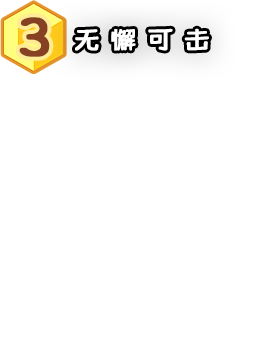
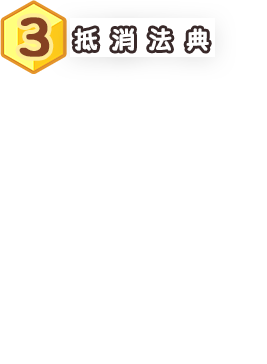
Adjust card functions

Changed region(s): [[0.2697, 0.0604, 0.809, 0.1511]]

diff --git a/Assets/TDTK/Scripts/CardManager.cs b/Assets/TDTK/Scripts/CardManager.cs
@@ -56,18 +56,18 @@ namespace TDTK
             int quality;
             int num = Random.Range(0, 10);
 
-            if (card_setting.draw_times < 10)
+            if (card_setting.draw_times < 8)
             {
                 quality = 0;
             }
-            else if (card_setting.draw_times < 30)
+            else if (card_setting.draw_times < 28)
             {
                 if (num < 5)
                     quality = 0;
                 else
                     quality = 1;
             }
-            else if (card_setting.draw_times < 60)
+            else if (card_setting.draw_times < 58)
             {
                 if (num < 2)
                     quality = 0;
@@ -223,17 +223,17 @@ namespace TDTK
             int level = Level + 1;
 
             if (CardType == 0)
-                return string.Format("+{0}本魔典{1}秒\n攻速+{2}%", (quality - 0.5) * 2, 15, 14 * level);
+                return string.Format("{0}秒内法典\n额外+{1}本", 9 + 3 * level, quality);
             else if (CardType == 1)
-                return string.Format("{0}秒内持续\n攻塔{1}次", 6 + 2 * quality, 10 + level * 5 + (quality * 15));
+                return string.Format("{0}秒内法典\n攻速+{1}%", 7 + 3 * level, 150 + 50 * quality);
             else if (CardType == 2)
-                return string.Format("{0}秒内移动\n+{1}%", 1.6f + 0.4f * level, 40 + (quality * 20));
+                return string.Format("{0}秒内移动\n+{1}%", 1.7f + 0.3f * level, 30 + (quality * 15));
             else if (CardType == 3)
-                return string.Format("免伤{0}点", (level + quality * 6) * 3);
+                return string.Format("免伤{0}点", (level + quality * 5) * 3);
             else if (CardType == 4)
-                return string.Format("变大{0}倍\n无敌{1}秒", 1.7f + 0.8f * level, 3f + 0.5f * quality);
+                return string.Format("变大{0}倍\n无敌{1}秒", 2f + 0.6f * level, 2.8f + 0.6f * quality);
             else
-                return string.Format("塔定住{0}秒\n弹幕定{1}秒", 2f + 0.5f * level, 1.7f + 0.3f * quality);
+                return string.Format("塔暂停{0}秒\n子弹停{1}秒",2f + 0.5f * level, 1.7f + 0.3f * quality);
         }
     }
 

diff --git a/Assets/TDTK/Scripts/UI/UIGameOver.cs b/Assets/TDTK/Scripts/UI/UIGameOver.cs
@@ -55,8 +55,8 @@ namespace TDTK
         public void OnMenuButton()
         {
             TDTK.OnCardOrMainMenu();
-            Achievement.BestRecord = global_gamesetting.current_stagelv - 1 > Achievement.BestRecord ?
-                global_gamesetting.current_stagelv - 1 : Achievement.BestRecord;
+            Achievement.BestRecord = global_gamesetting.current_stagelv > Achievement.BestRecord ?
+                global_gamesetting.current_stagelv : Achievement.BestRecord;
             SceneManager.LoadScene("TD_Demo_Garena_LoginMenu");
             ResetGame();
         }
@@ -99,8 +99,8 @@ namespace TDTK
                 }
 
 
-                int num = 5 + (Achievement.Combo > 5? 5: Achievement.Combo);
-                lbReward.text = string.Format("小家伙们安全到家\n获得卡包：{0}个", num);
+                int num = 3 + (Achievement.Combo > 5? 5: Achievement.Combo);
+                lbReward.text = string.Format("小家伙们安全到家，获得卡包：{0}个", num);
                 card_setting.AddDrawNum(num);
             }
             else if (Achievement.Retries > 0)
@@ -110,14 +110,14 @@ namespace TDTK
                 Achievement.Retries--;
                 Achievement.Combo = 0;
                 
-                lbReward.text = string.Format("损失一条命\n剩余复活机会：{0}次", Achievement.Retries);
-                card_setting.AddDrawNum(10);
+                lbReward.text = string.Format("剩余复活机会：{0}次\n从地狱带回卡包：6个", Achievement.Retries);
+                card_setting.AddDrawNum(6);
             }
             else
             {
                 buttonCard.SetActive(false);
                 buttonNext.SetActive(false);
-                lbReward.text = string.Format("你玩完了 - {0}", global_gamesetting.current_stagelv);
+                lbReward.text = string.Format("闯到第{0}关！", global_gamesetting.current_stagelv);
             }
 
             UIMainControl.FadeIn(canvasGroup, 0.25f, thisObj);

diff --git a/Assets/hand_cards.cs b/Assets/hand_cards.cs
@@ -179,9 +179,8 @@ public class hand_cards : MonoBehaviour
         int level = card_setting.cards_lv[0] + 1;
         int quality = card_setting.cards_ql[0] + 1;
 
-        magic_book.books_cnt = (int)((quality - 0.5f) * 2f);
-        magic_book.books_keepcd = 15;
-        magic_book.books_attack_rate = 100f / (100 + 14 * level);
+        magic_book.books_cnt = (int)((quality) * 1f);
+        magic_book.books_keepcd = 9 + level * 3;
 
         //    return string.Format("�ٻ�{0}��ħ��\n��ս{1}�룬����+{2}%",  (int)((quality - 0.5f) * 2f), 7 + level * 2 + quality, 18 * level;
     }
@@ -194,8 +193,8 @@ public class hand_cards : MonoBehaviour
         int quality = card_setting.cards_ql[1] + 1;
         Debug.Log($"level = {level} quality={quality}");
 
-        card1_cd = 6f + 2f * quality;
-        card1_attack_cnt = 10 + (level * 5) + (quality * 15);
+        magic_book.books_rate_keepcd = 9 + 3 * level;
+        magic_book.books_attack_rate = 100f / (150 + 50 * quality);
 
         //return string.Format("ǿ��ħ�����{0}�룬��๥��{1}��", 6f + 2f * quality, 10 + (level * 5)  + (quality * 15));
     }
